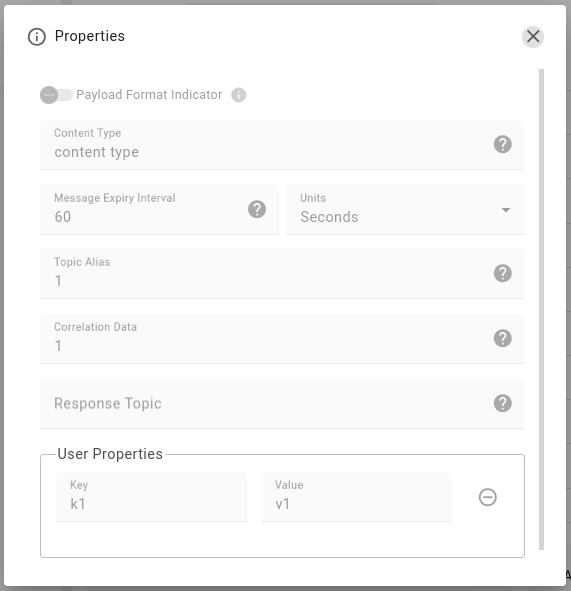
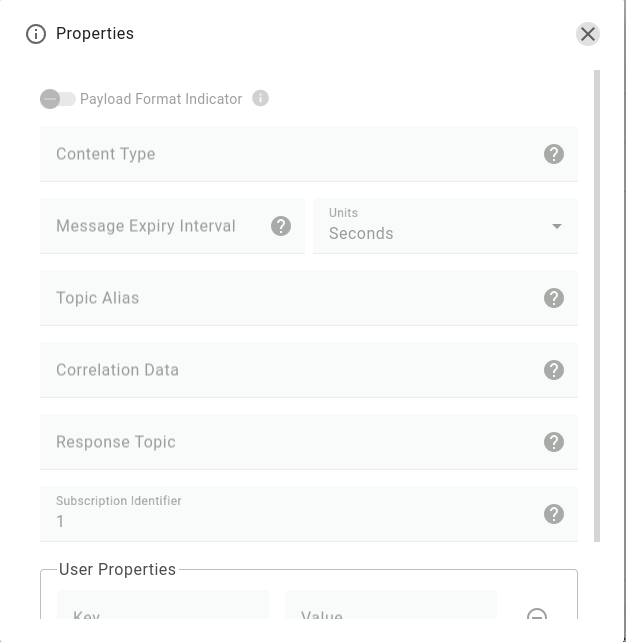
tbmq updated docs and images: ws-client, sessions, credentials

diff --git a/_includes/docs/mqtt-broker/user-guide/ui/mqtt-client-credentials.md b/_includes/docs/mqtt-broker/user-guide/ui/mqtt-client-credentials.md
@@ -11,6 +11,9 @@ TBMQ supports the following types of client credentials to authenticate client c
   - **Advantages:** Enhanced security compared to the basic client credentials type. With SSL client credentials, both the client and TBMQ can authenticate each other. 
   The SSL client credentials type provides more flexibility in terms of access control, as it allows for more granular access control policies based on the certificate subject name and other attributes.
   - **Disadvantages:** Complexity and increased cost. Setting up and managing SSL client credentials can be more complex and requires more expertise. SSL encryption and decryption require more computing resources.
+- **SCRAM** - advanced security measure using Salted Challenge Response Authentication Mechanism (SCRAM) that provides secure, password-based authentication.
+  - **Advantages:** Higher security level compared to basic authentication. It uses a challenge-response process to exchange hashed credentials, ensuring the password is never sent in plain text.
+  - **Disadvantages:** Requires additional computational resources to generate and validate the salted password hashes.
 
 Before using any of the client credential types mentioned above, please ensure that they are enabled in TBMQ [configuration file](/docs/mqtt-broker/install/config/).
 - **Basic Auth.** To enable MQTT Basic Credentials, set `SECURITY_MQTT_BASIC_ENABLED` to `true`.
@@ -95,6 +98,23 @@ Please consider the following examples:
 
 ![image](/images/mqtt-broker/user-guide/ui/ssl-credentials-2.png)
 
+#### SCRAM
+
+**SCRAM** (Salted Challenge Response Authentication Mechanism) is an enhanced authentication method for MQTT 5 clients, based on **username and password**.
+
+##### Authentication
+
+* **Username** - a unique identifier for the client, used in conjunction with the password in authentication.
+* **Password** - a secret string known only to the user and the server. Password is salted and hashed before being stored and used in authentication.
+
+##### Authorization Rules
+
+Authorization rule patterns allow controlling what topics clients can publish/subscribe to based on **regular expression syntax**:
+
+* **Allowing particular topic(s)** - the rule `country/.*` will allow clients to publish/subscribe messages only to topics that start with `country/`.
+* **Allowing any topic** - the rule `.*` (default) will allow clients to publish/subscribe messages to any topic.
+* **Forbidding all topics** - if the rule is `empty`, the client is forbidden to publish/subscribe to any topic.
+
 ### Delete Client Credentials
 
 Broker administrators can remove client credentials from TBMQ system using the Web UI or [REST API](/docs/mqtt-broker/mqtt-client-credentials-management/).
@@ -107,3 +127,26 @@ There are a few ways of deleting client credentials:
    * By clicking on the checkbox you can select multiple items. Then click the _Delete_ icon in the top right corner and cofirm action.
 
 {% include images-gallery.html imageCollection="delete-client-credentials" %}
+
+### Check connectivity
+
+“Check Connectivity” is a useful feature that automatically generates commands to **subscribe to a topic** and **publish a message**.
+This feature utilizes the user's host, port, and client credentials to generate the necessary commands. 
+
+It is available only for [Basic Credentials](docs/mqtt-broker/user-guide/ui/mqtt-client-credentials/#mqtt-basic-credentials).
+
+To open a window with commands, please follow the next steps:
+1. Click “Check connectivity” button to open the corresponding window.
+2. In the opened window, select your operating system.
+3. Install the necessary client tools using the command from the guide.
+4. Copy and run commands.
+
+{% include images-gallery.html imageCollection="check-connectivity" %}
+
+If the client credentials include a password, please ensure you replace "$YOUR_PASSWORD" with the actual password. 
+Below are examples of the generated commands for the credentials with password:
+
+```bash
+mosquitto_sub -d -q 1 -h localhost -p 1883 -t tbmq/demo/+ -i "tbmq_eJzCIh6r" -u "tbmq_un_VxUVPaF8" -P "$YOUR_PASSWORD" -v
+mosquitto_pub -d -q 1 -h localhost -p 1883 -t tbmq/demo/topic -i "tbmq_eJzCIh6r" -u "tbmq_un_VxUVPaF8" -P "$YOUR_PASSWORD" -m 'Hello World'
+```

diff --git a/_includes/docs/mqtt-broker/user-guide/ui/sessions.md b/_includes/docs/mqtt-broker/user-guide/ui/sessions.md
@@ -7,31 +7,31 @@ This encompasses both the existing online sessions, representing clients current
 By accessing this page, users can gain a comprehensive overview of all stored sessions, enabling them to monitor and 
 manage both the active and historical records of client interactions with the broker.
 
-### Session Details
-
 To access the detailed information of the current TBMQ sessions, please follow these steps:
 
 1. Open the 'Sessions' page in the left-hand menu.
-2. Click on the Session table row will open the window that provides the basic information about the session details.
+2. Click on the Session table row to open a window with session details.
+
+In the "Session Details" users can disconnect or remove client session:
+* To **disconnect** a client, click on the "Disconnect client" button. Please note that only `Connected` clients can be disconnected.
+* To **remove** a client session, click on the "Remove session" button. Keep in mind that only `Disconnected` clients can be removed.
+
+{% include images-gallery.html imageCollection="sessions-details" %}
+
+### Session Details
 
 The **Details** tab contains the next information: 
    * **Connected Status** (Connected/Disconnected).
    * **Connected At** time. 
    * **Disconnected At** time.
-   * **Keep Alive** (seconds) - indicates the duration for which the Broker and Client can remain without communication before the session is closed.
+   * **Keep Alive** (seconds) - indicates the duration for which the broker and client can remain without communication before the session is closed.
    * **Node ID**.
-   * **Clean Start**. If the checkbox is set to true, it means that the session is non-persistent. In other words, all information and messages from the previous persistent session will be lost upon disconnection.
+   * **Clean Start** (clean/persistent session) - if true, the broker will discard any available previous session info and messages, and start a new one.
    * **Client ID**.
-   * **Client IP** address.
-   * **Client type** (Device/Application).
-   * **Client Credentials** (TBMQ) that authenticated the session.
-   * **MQTT version**.
-
-Users can control the MQTT session by disconnecting connected clients or by removing disconnected client sessions:
-* To **disconnect** a client, click on the "Disconnect client" button. Please note that only `Connected` clients can be disconnected.
-* To **remove** a client session, click on the "Remove session" button. Keep in mind that only `Disconnected` clients can be removed.
-
-{% include images-gallery.html imageCollection="sessions-details" %}
+   * **Client IP**.
+   * [**Client type**](docs/mqtt-broker/user-guide/mqtt-client-type) (Device/Application).
+   * [**Client Credentials**](docs/mqtt-broker/user-guide/ui/mqtt-client-credentials/) that authenticated current session.
+   * **MQTT version** - determines which version of MQTT protocol to be used - MQTT 3.1 (3), MQTT 3.1.1 (4), or MQTT 5.0 (5).
 
 ### Subscriptions
 

diff --git a/_includes/docs/mqtt-broker/user-guide/ui/websocket-client.md b/_includes/docs/mqtt-broker/user-guide/ui/websocket-client.md
@@ -160,8 +160,9 @@ If false, messages have the RETAIN flag set to 0.
   * 2 - do not send retained messages at subscription time.
 * **No local**. When set to true, the broker will not forward messages from this client back to the connection on which this subscription was made.
 * **Color**. Color is used for easier differentiation of the messages in the messages table. Can be changed.
+* **Subscription Identifier**. A unique identifier (numeric value greater than 0) assigned to a subscription. It is used to track, manage, and reference a specific subscription, ensuring that each subscription can be uniquely distinguished from others.
 
-![image](/images/mqtt-broker/user-guide/ui/ws-subscription-overview.png)
+{% include images-gallery.html imageCollection="ws-subscription-overview" %}
 
 ### Messages
 

diff --git a/docs/mqtt-broker/user-guide/ui/mqtt-client-credentials.md b/docs/mqtt-broker/user-guide/ui/mqtt-client-credentials.md
@@ -36,6 +36,14 @@ delete-client-credentials:
     image: /images/mqtt-broker/user-guide/ui/delete-credentials-2.png
     title: 'Delete mulptiple. Click on the checkboxes and confirm action by clicking on the button "Delete" in the top right corner.'
 
+check-connectivity:
+  0:
+    image: /images/mqtt-broker/user-guide/ui/check-connectivity-1.png
+    title: 'Click on the button "Check connectivity" of the Basic client credentials.'
+  1:
+    image: /images/mqtt-broker/user-guide/ui/check-connectivity-2.png
+    title: 'Select your operating system, install required tools, and copy commands.'
+
 ---
 
 {% include docs/mqtt-broker/user-guide/ui/mqtt-client-credentials.md %}

diff --git a/docs/mqtt-broker/user-guide/ui/websocket-client.md b/docs/mqtt-broker/user-guide/ui/websocket-client.md
@@ -89,6 +89,11 @@ ws-table-msg:
     image: /images/mqtt-broker/user-guide/ui/ws-table-msg-3.png
     title: 'Properties of the message.'
 
+ws-subscription-overview:
+  0:
+    image: /images/mqtt-broker/user-guide/ui/ws-subscription-overview-1.png
+    title: 'Subscription settings with MQTT 5 options.'
+
 ---
 
 {% include docs/mqtt-broker/user-guide/ui/websocket-client.md %}
